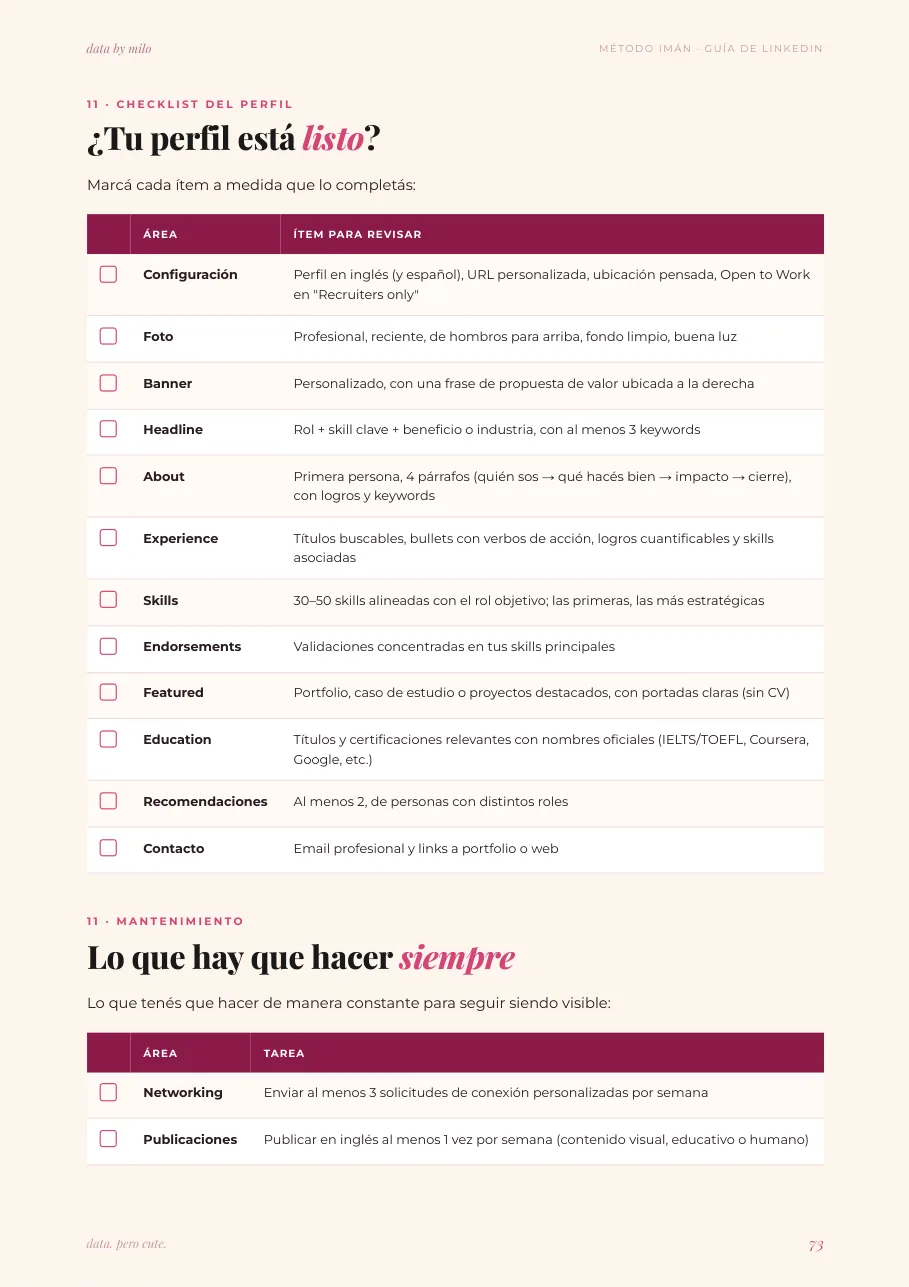
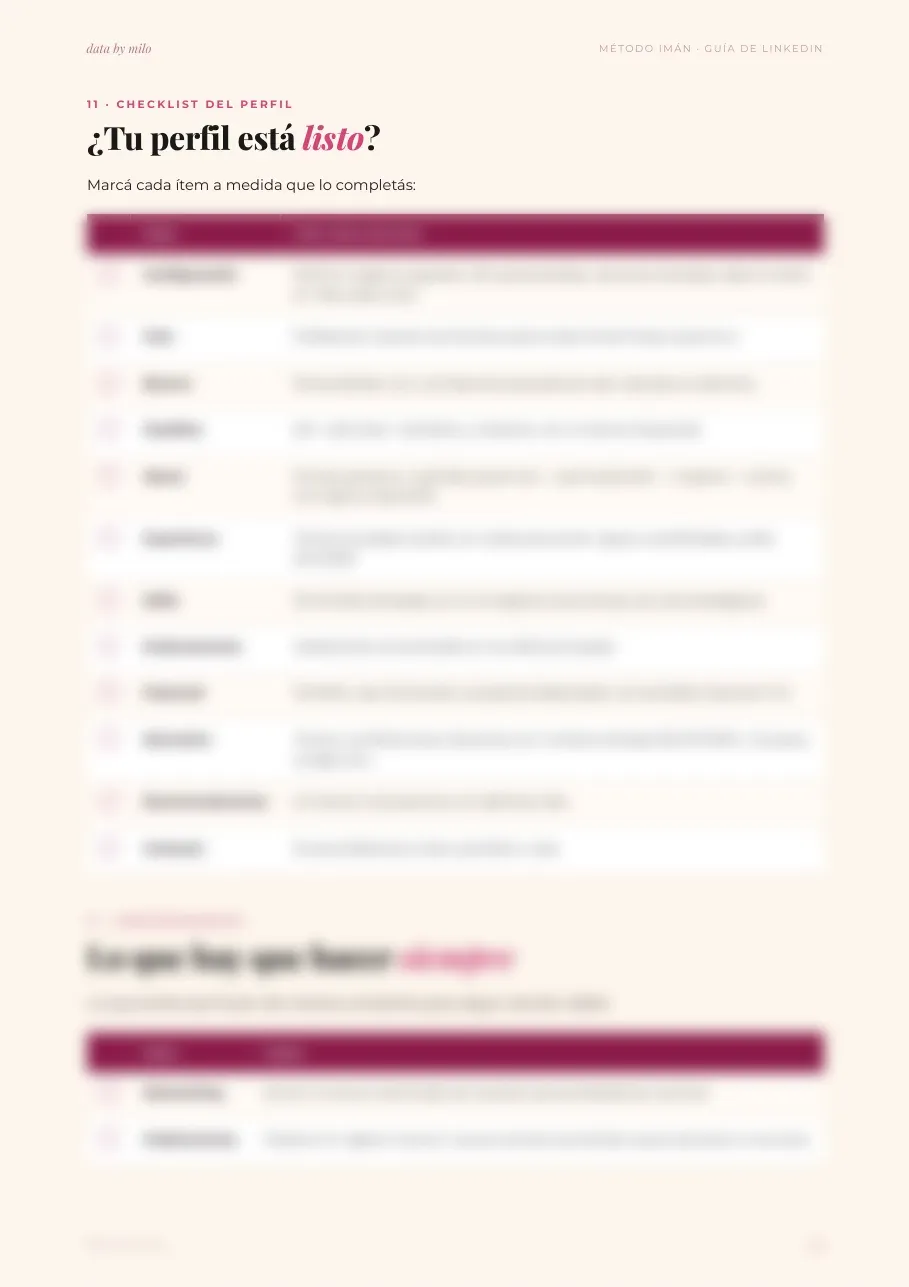
Método Imán: blur ebook page previews and remove 'La diferencia' section
Interior page images now have the body text blurred into the file itself
(only the chapter header stays sharp), so the content can't be read even
by opening the image URL. Removed the before/after section and the links
that opened each preview at full size.

Claude-Session: https://claude.ai/code/session_014NfRF1JxDDd5KdtUqRVAPj

diff --git a/app/recursos/metodo-iman/page.jsx b/app/recursos/metodo-iman/page.jsx
@@ -35,7 +35,6 @@ export default async function Page() {
         <HeroSection />
         <TrustBar />
         <ProblemSection />
-        <BeforeAfterSection />
         <StorySection />
         <ForYouSection />
         <LearnSection />
@@ -150,43 +149,6 @@ function TrustBar() {
         ))}
       </div>
     </div>
-  );
-}
-
-/* ANTES / DESPUÉS */
-const beforeAfter = [
-  { label: "Headline", before: "Estudiante | Buscando nuevas oportunidades", after: "Data Analyst | SQL · Power BI · Python | Convierto datos en decisiones de negocio" },
-  { label: "About", before: "Soy una persona proactiva, responsable y con ganas de aprender.", after: "Un párrafo que dice qué problema resolvés, con qué herramientas y un resultado con números." },
-  { label: "Experiencia", before: "Encargada de hacer reportes semanales.", after: "Automaticé el reporte semanal en Power BI y bajé de 6 a 1 hora el tiempo de armado." },
-  { label: "Resultado", before: "Postulás a 40 ofertas y nadie responde.", after: "Aparecés en las búsquedas y los reclutadores te escriben a vos." },
-];
-
-function BeforeAfterSection() {
-  return (
-    <section className="stake-section stake-section-top0" style={{ padding: "0 0 100px" }}>
-      <div className="journal">
-        <SectionHeader eyebrow="La diferencia" title={<>Mismo talento. <em>Otro perfil.</em></>} />
-        <div style={{ display: "flex", flexDirection: "column", gap: 14, marginTop: 40 }}>
-          {beforeAfter.map((row) => (
-            <div key={row.label} className="stake-for-grid" style={{ display: "grid", gridTemplateColumns: "140px 1fr 1fr", gap: 14, alignItems: "stretch" }}>
-              <div style={{ fontFamily: B, fontWeight: 800, fontSize: 11, letterSpacing: ".16em", textTransform: "uppercase", color: "var(--vino)", alignSelf: "center" }}>
-                {row.label}
-              </div>
-              <div style={{ background: "var(--cream-100)", border: "1px solid rgba(139,26,74,.08)", borderRadius: 10, padding: "16px 18px", fontFamily: B, fontSize: 14, lineHeight: 1.6, color: "var(--fg-3)" }}>
-                <span style={{ fontWeight: 800, marginRight: 6 }}>✕</span>{row.before}
-              </div>
-              <div style={{ background: "#f0f9f0", border: "1px solid rgba(34,100,34,.18)", borderRadius: 10, padding: "16px 18px", fontFamily: B, fontSize: 14, lineHeight: 1.6, color: "#2a472a" }}>
-                <span style={{ fontWeight: 800, color: "#1a8c1a", marginRight: 6 }}>✓</span>{row.after}
-              </div>
-            </div>
-          ))}
-        </div>
-        <MiniCTA
-          headline="La guía te lleva de la columna izquierda a la derecha, sección por sección."
-          note={`${PRICE} · Descarga inmediata · Garantía de 7 días`}
-        />
-      </div>
-    </section>
   );
 }
 
@@ -408,17 +370,15 @@ function InsideSection() {
         <div style={{ display: "grid", gridTemplateColumns: "repeat(auto-fit, minmax(230px, 1fr))", gap: 28, marginTop: 48 }}>
           {insidePages.map((p) => (
             <figure key={p.src} style={{ margin: 0 }}>
-              <a href={p.src} target="_blank" rel="noopener noreferrer" style={{ display: "block" }}>
-                <img
-                  src={p.src}
-                  alt={p.caption}
-                  loading="lazy"
-                  style={{
-                    width: "100%", display: "block", borderRadius: 8,
-                    border: "1px solid rgba(139,26,74,.12)", boxShadow: "0 12px 32px rgba(139,26,74,.14)",
-                  }}
-                />
-              </a>
+              <img
+                src={p.src}
+                alt={p.caption}
+                loading="lazy"
+                style={{
+                  width: "100%", display: "block", borderRadius: 8,
+                  border: "1px solid rgba(139,26,74,.12)", boxShadow: "0 12px 32px rgba(139,26,74,.14)",
+                }}
+              />
               <figcaption style={{ fontFamily: B, fontSize: 13, fontWeight: 600, color: "var(--fg-2)", marginTop: 12, textAlign: "center" }}>
                 {p.caption}
               </figcaption>
